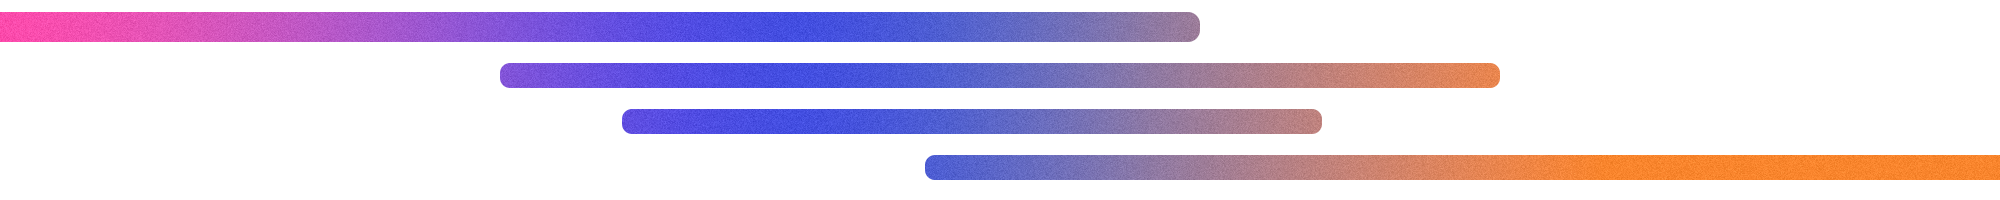
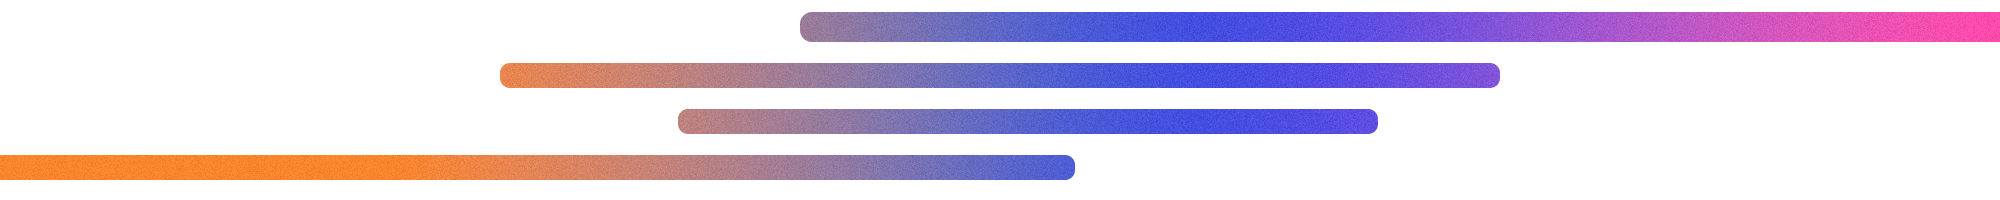
positioning img-container

diff --git a/css/stylesheet.css b/css/stylesheet.css
@@ -48,12 +48,10 @@ form input {
 /*	Banner*/
 
 #banner {
-    font-family: "Helvetica Neue", sans-serif;
-    font-size: 48px;
-    color: #FF4BAD;
-    position: static;
+    position: sticky;
+    top: -4%;
     display: flex;
-    z-index: 3;
+    z-index: 1;
 }
 
 .color-bars {
@@ -63,24 +61,26 @@ form input {
 /*	Navigation*/
 
 nav {
-    height: 100px;
+    height: 10vh;
+    align-items: center;
 }
 
-nav ul {
+.crumbs > ul {
     margin-left: 10px;
     margin-right: 10px;
+    background-color: #3498db;
 }
 
 .crumbs {
     display: flex;
     flex-wrap: wrap;
     justify-content: center;
+    align-items: center;
 }
 
 .crumbs a {
     font-family: monospace, sans-serif;
-    font-size: 20px;
-    font-weight: 300;
+    font-size: 1.2em;
     display: inline-block;
 }
 
@@ -90,7 +90,8 @@ nav ul {
     flex-wrap: wrap;
     font-size: 30px;
     background-color: transparent;
-    position: absolute;
+
+    /*position: absolute;*/
 }
 
 .crumb {
@@ -156,37 +157,41 @@ main .project-link:hover {
 #img-container-main{
     display: flex;
     flex-wrap: wrap;
-    justify-content: space-around;
+    /*justify-content: space-evenly;*/
     height: 15vh;
     align-items: flex-start;
 }
 
 .decorative-banner {
     width: 30vw;
+    max-width: 360px;
+    max-height: 180px;
     height: auto;
-    margin-right: auto;
+    justify-self: flex-start;
+    /*margin-right: auto;*/
 }
 
 main .ben-portrait {
-    margin-right: 10px;
-    margin-left: 10px;
+    margin: 0 auto;
     border-radius: 50%;
     width: 15vw;
+    max-height: 180px;
+    max-width: 180px;
     /*height: fit-content;*/
 }
 
 
 .mini-bars-left {
     position: sticky;
+    width: 8vw;
     bottom: 50px;
     left: 0;
     float: left;
 }
 
-main,
-article {
-    margin-left: 60px;
-    margin-right: 60px;
+main {
+    margin: 0 auto;
+    width: 90vw;
     padding: 2% 15% 2% 5%;
     background-color: rgba(164, 164, 164, 0.10);
     color: #39071fca;
@@ -194,11 +199,6 @@ article {
     background-size: contain;
     background-repeat: repeat;
     border-radius: 15px;
-}
-
-article {
-    background-size: contain;
-    background-repeat: repeat-y;
 }
 
 article h2 {
@@ -328,16 +328,14 @@ article span {
 /*  Inquiry area  */
 
 #inquiry-container {
-    /*background-color: rgba(171, 171, 171, 0.42);*/
     width: 100%;
 }
 
 .inquiry {
-    width: 100%;
+    /*background-color: rgba(171, 171, 171, 0.42);*/
 }
 
 .inquiry input {
-    max-height: 50px;
 }
 
 .inquiry input,
@@ -346,11 +344,14 @@ article span {
     background-color: rgba(125, 125, 125, 0.17);
     border-radius: 5px;
     padding-left: 5px;
+    width: 50%;
+    max-width: 300px;
+    min-width: 150px;
 }
 
 .inquiry textarea {
-    min-width: 220px;
-    max-width: 500px;
+    min-width: 26vw;
+    max-width: 80vw;
     max-height: 200px;
     min-height: 100px;
     overflow: visible;
@@ -366,7 +367,8 @@ article span {
 .inquiry #submit {
     box-shadow: 2px 2px rgba(95, 95, 95, 0.59);
     color: white;
-    width: 80px;
+    width: 10vw;
+    min-width: 80px;
 }
 
 .inquiry #submit:hover {

diff --git a/index.html b/index.html
@@ -16,7 +16,7 @@
 <body>
 
 <header id="banner">
-    <img class="color-bars" src="img/color-bars3.png" alt="colorful bar design">
+    <img class="color-bars" src="img/color-bars-faded.png" alt="colorful bar design">
 </header>
 
 <!--	Navigation 	-->
@@ -55,6 +55,7 @@
         <img class="ben-portrait" src="img/gradient-bkgd-small.jpg" alt="portrait of Benjamin Martin">
     </div>
     <br>
+    <section class="main-text">
     <h3>Bio</h3>
     <p>
         Full Stack Web Developer. Languages include HTML, CSS, JavaScript and Java. Experience with
@@ -78,7 +79,8 @@
         workload, and pace.
     </p>
     <br><br>
-    <div id="inquiry-container">
+    </section>
+    <section id="inquiry-container">
         <form onsubmit="runCode(event)" class="inquiry" action="https://formsubmit.co/ben.w.martin17@gmail.com"
               method="POST">
             <h3>Send an Inquiry</h3>
@@ -93,10 +95,10 @@
 <!--            <label for="emailConfirm">Confirm email address:<br>-->
 <!--&lt;!&ndash;                <input type="text" id="emailConfirm" name="emailConfirm" required></label><br>&ndash;&gt;-->
             <label for="message">Message:<br>
-                <textarea id="message" name="message" maxlength="400" required></textarea></label><br>
+                <textarea id="message" name="message" maxlength="655" required></textarea></label><br>
             <input id="submit" type="submit" value="Submit">
         </form>
-    </div>
+    </section>
     <br><br>
 </main>
 <img class="mini-bars-left" src="img/mini-bars-left.png">

diff --git a/projects.html b/projects.html
@@ -16,7 +16,7 @@
 <body>
 <script src="js/portfolio.js"></script>
 <header id="banner">
-    <img class="color-bars" src="img/color-bars3.png" alt="Benjamin Martin">
+    <img class="color-bars" src="img/color-bars-faded.png" alt="Benjamin Martin">
 </header>
 
 <!--	Navigation 	-->
@@ -53,7 +53,7 @@
 
 <main>
     <div id="img-container-main">
-        <img class="decorative-banner" src="img/project-gradient.png" alt="Projects">
+        <img class="decorative-banner" src="img/project-gradient2.png" alt="Projects">
     </div>
     <br>
     <a class="project-link" href="#"><h3>Office Workout Tracker [UNDER DEVELOPMENT]</h3></a>
